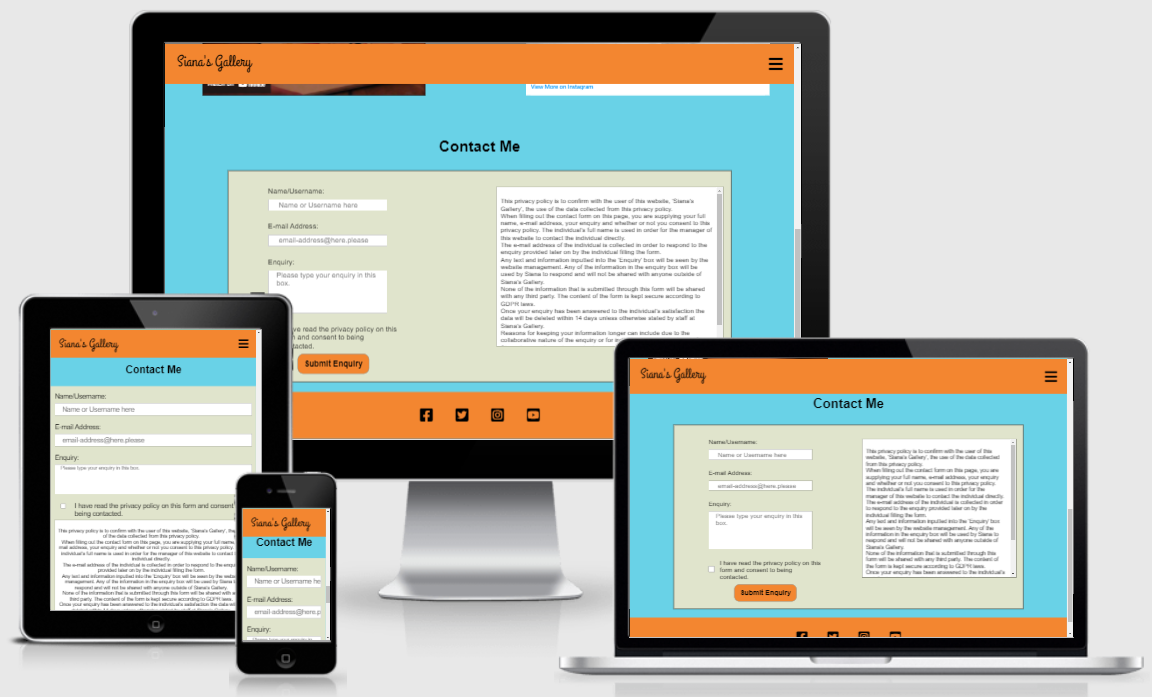
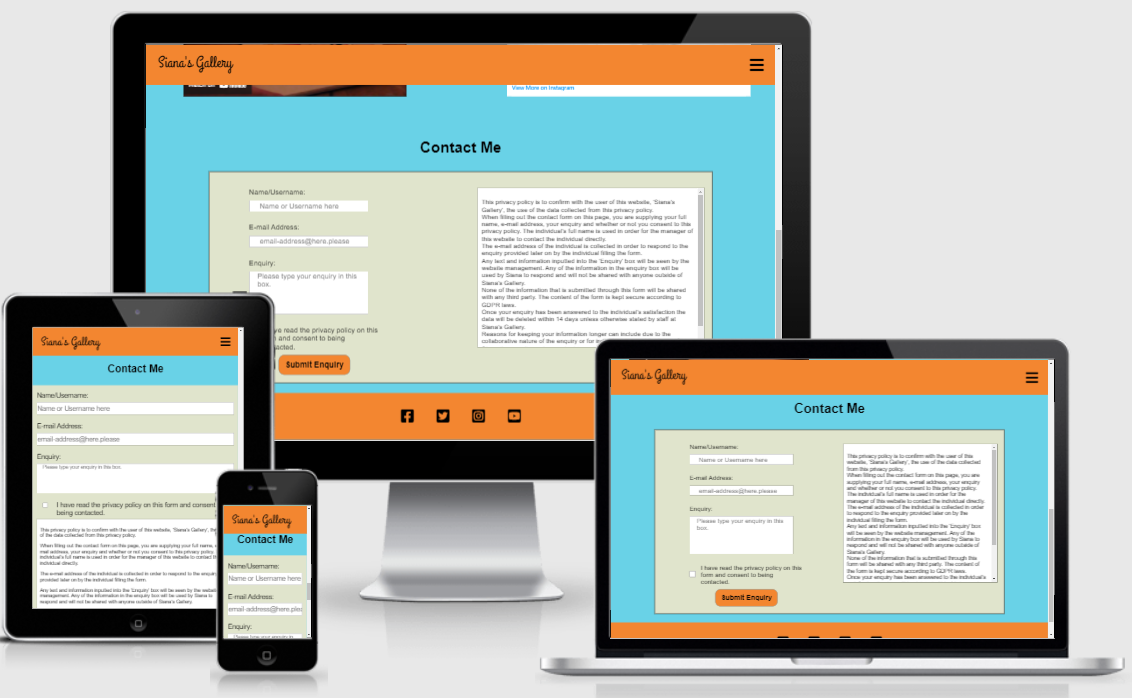
Reduced font size for input.contact-form-input as placeholder text was cut off

diff --git a/assets/css/style.css b/assets/css/style.css
@@ -617,7 +617,7 @@ iframe.youtube-video {
 		display: block;
 	}
 	input.contact-form-input {
-		font-size: 24px;
+		font-size: 20px;
 		height: 46px;
 		width: 100%;
 		margin: 0 auto;
